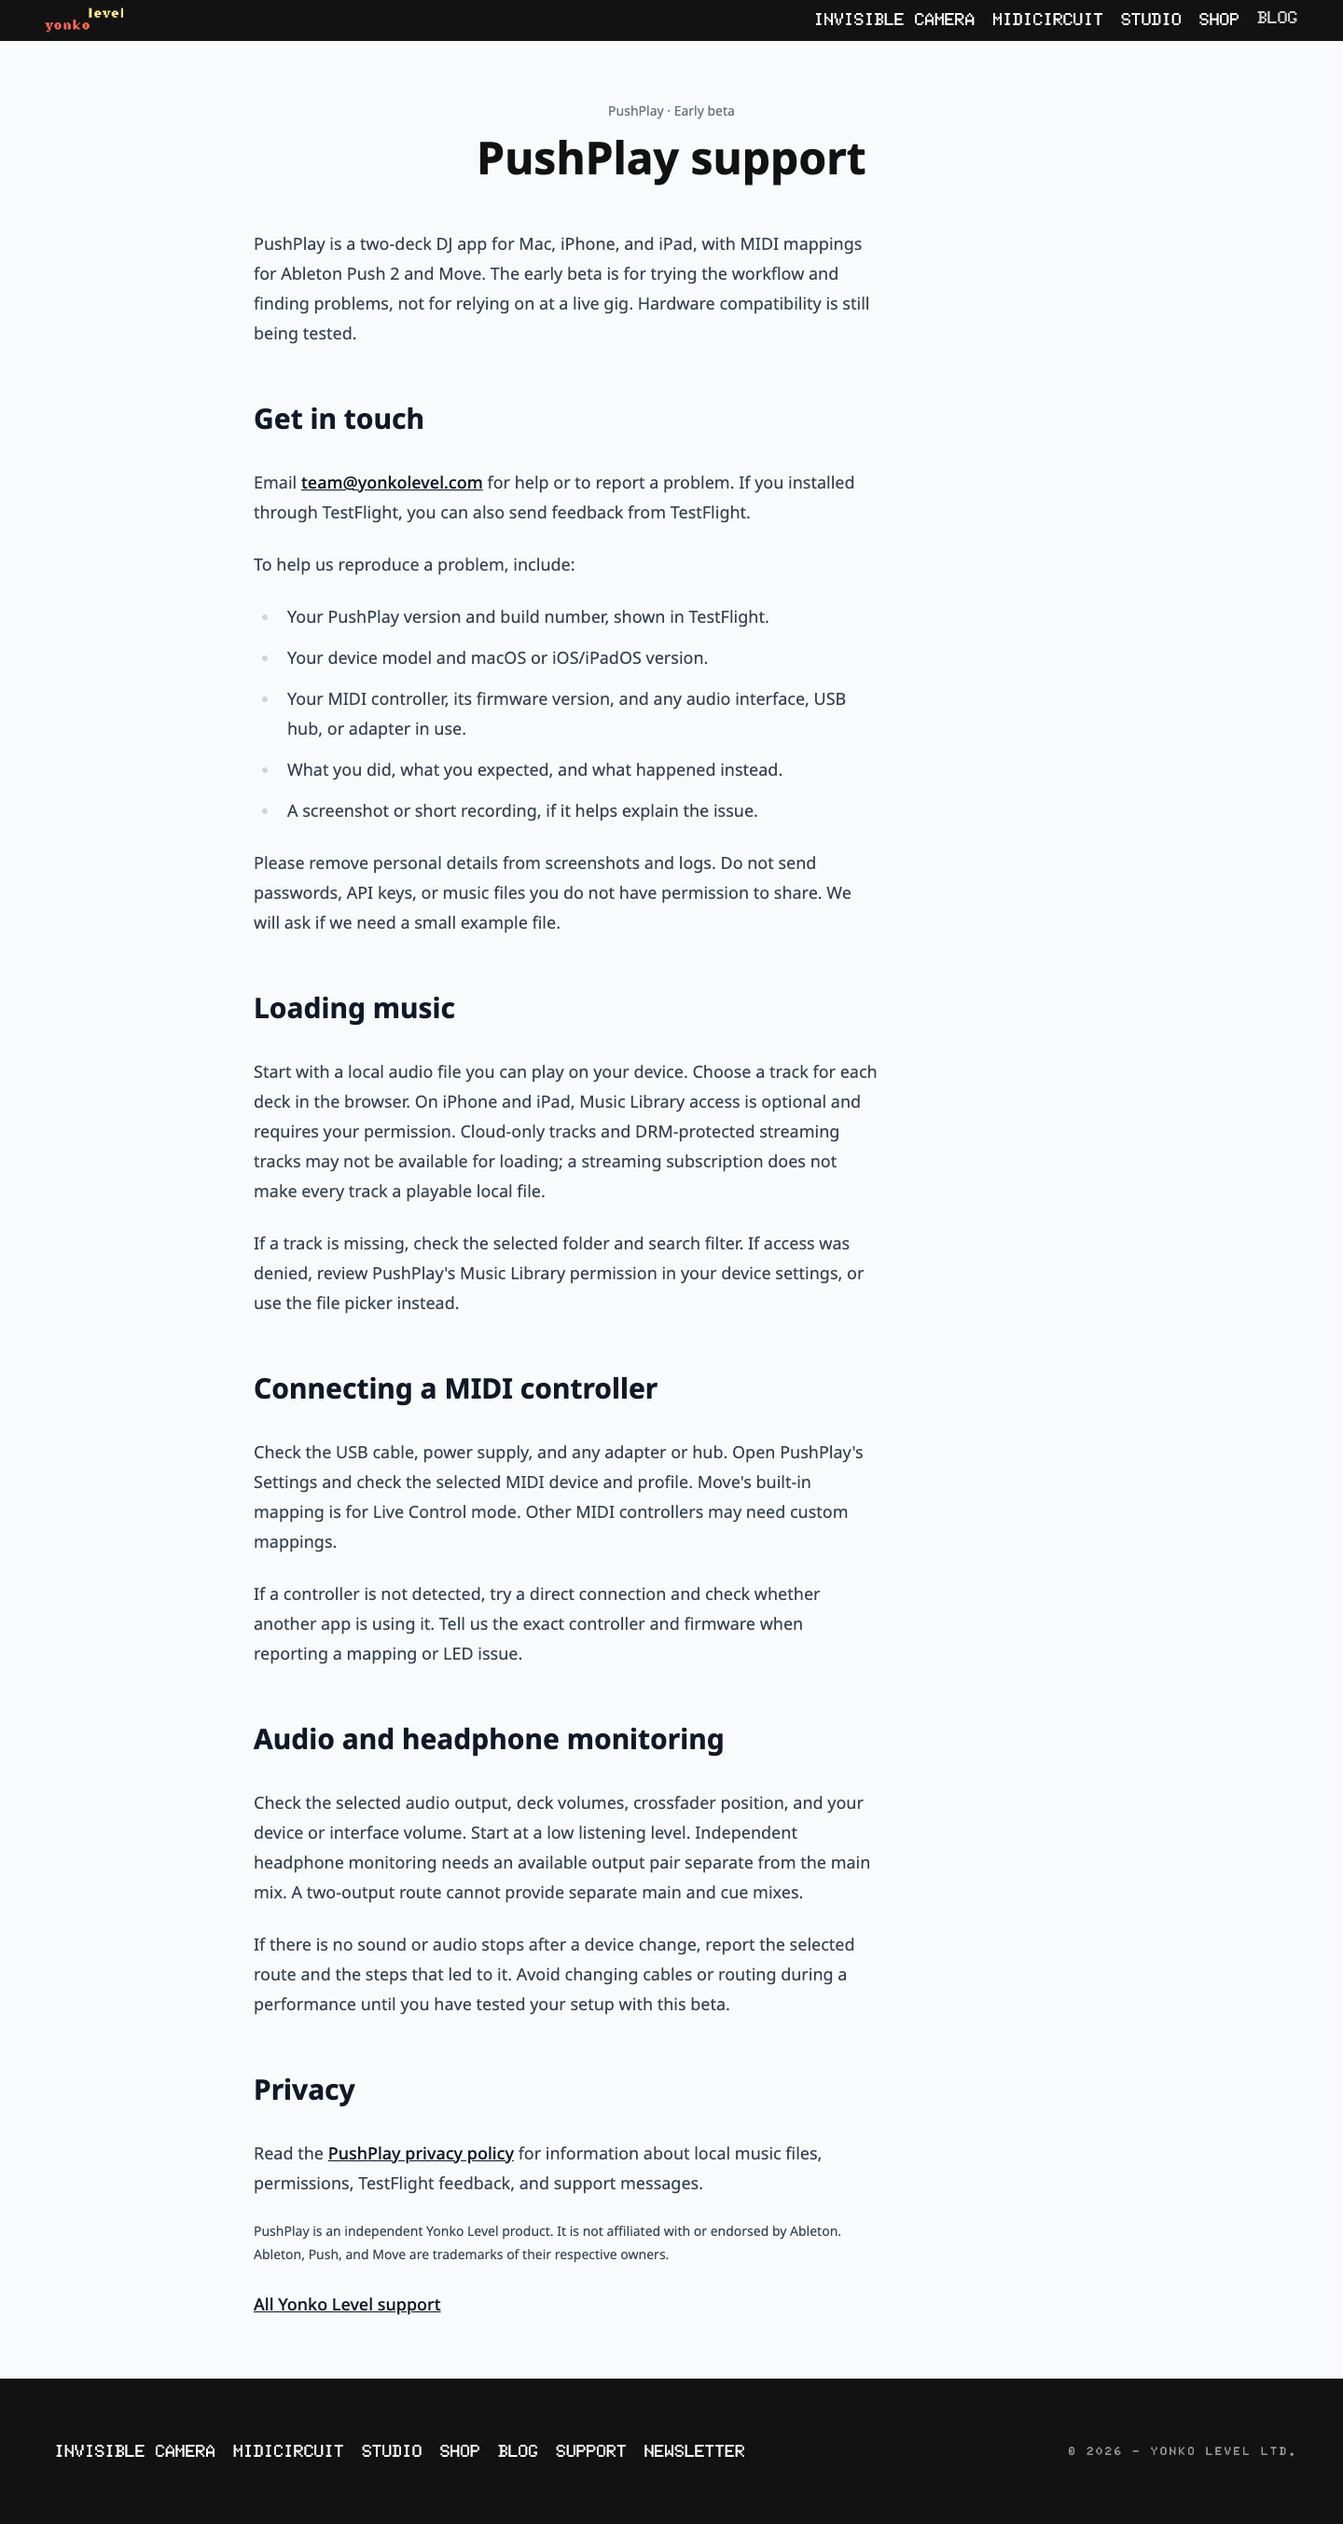
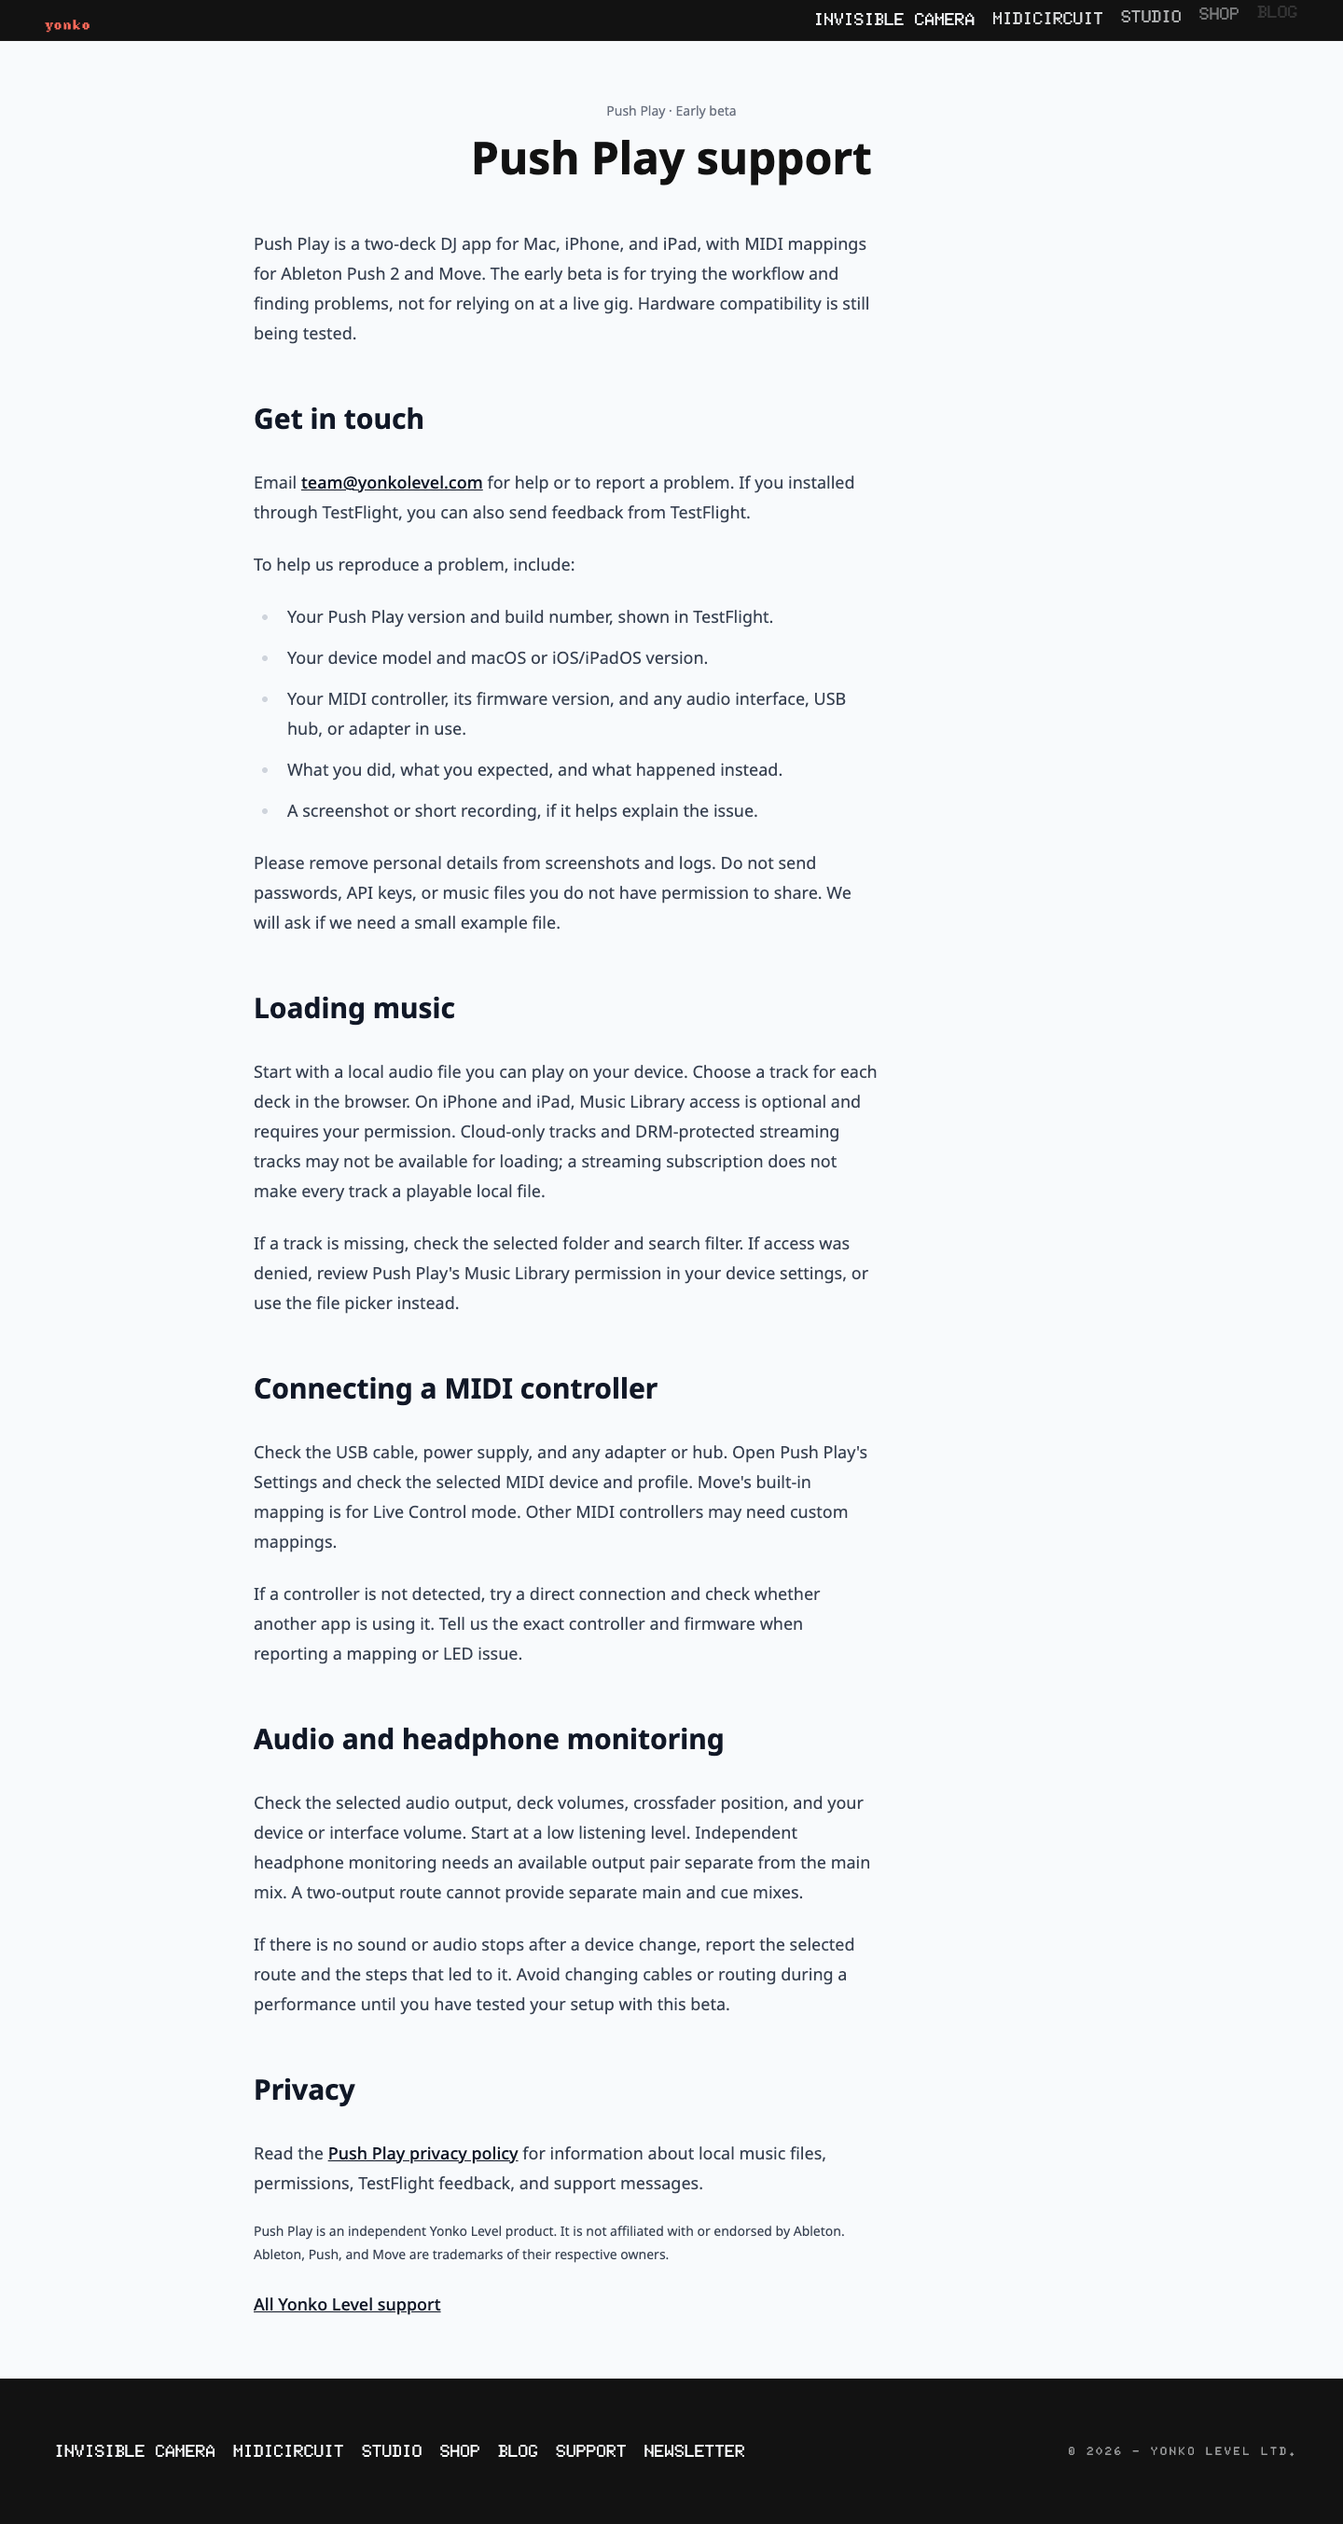
docs(pushplay): use Push Play product spelling
Keep support and privacy URLs unchanged and refresh desktop/mobile evidence.

diff --git a/src/app/products/pushplay/privacy-policy/page.tsx b/src/app/products/pushplay/privacy-policy/page.tsx
@@ -3,9 +3,9 @@ import Link from 'next/link';
 import Container from '@/components/Container';
 
 export const metadata: Metadata = {
-  title: 'Privacy Policy - PushPlay',
+  title: 'Privacy Policy - Push Play',
   description:
-    'How PushPlay handles local music files, MIDI settings, optional Music Library access, TestFlight feedback, and support messages.',
+    'How Push Play handles local music files, MIDI settings, optional Music Library access, TestFlight feedback, and support messages.',
   alternates: {
     canonical: 'https://yonkolevel.com/products/pushplay/privacy-policy',
   },
@@ -18,7 +18,7 @@ export default function PushPlayPrivacyPolicyPage() {
         <div className='max-w-4xl mx-auto'>
           <div className='pb-10 text-center'>
             <h1 className='font-body font-bold text-3xl text-black'>
-              PushPlay privacy policy
+              Push Play privacy policy
             </h1>
             <p className='text-sm text-gray-500 mt-4'>
               Last updated: <time dateTime='2026-10-25'>25 October 2026</time>
@@ -28,22 +28,22 @@ export default function PushPlayPrivacyPolicyPage() {
             <h2>Overview</h2>
             <p>
               Yonko Level Ltd (&ldquo;we&rdquo;, &ldquo;us&rdquo;, or
-              &ldquo;our&rdquo;) develops PushPlay. This policy covers the
-              PushPlay 0.1 early beta for macOS and iOS/iPadOS and information
-              you choose to send us for support. You do not need a PushPlay
+              &ldquo;our&rdquo;) develops Push Play. This policy covers the
+              Push Play 0.1 early beta for macOS and iOS/iPadOS and information
+              you choose to send us for support. You do not need a Push Play
               account to use the app.
             </p>
 
             <h2>Music files and library access</h2>
             <p>
-              PushPlay reads audio files you select and processes their audio,
+              Push Play reads audio files you select and processes their audio,
               waveforms, and track metadata on your device. It does not provide
               a service that uploads your tracks or music library to Yonko Level.
               Track names, artists, and other available metadata are used to
               display and find tracks in the app.
             </p>
             <p>
-              On iPhone and iPad, you can optionally give PushPlay permission to
+              On iPhone and iPad, you can optionally give Push Play permission to
               read your Music Library. You can decline or revoke this permission
               in your device settings and use the file picker instead. Files
               selected through iCloud Drive or another file provider remain
@@ -52,7 +52,7 @@ export default function PushPlayPrivacyPolicyPage() {
 
             <h2>Local settings and MIDI</h2>
             <p>
-              PushPlay stores preferences, selected-folder references, and saved
+              Push Play stores preferences, selected-folder references, and saved
               MIDI mappings locally. It exchanges MIDI messages with connected
               controllers to operate the decks and update controller feedback.
               These features do not require a Yonko Level cloud account or
@@ -60,7 +60,7 @@ export default function PushPlayPrivacyPolicyPage() {
             </p>
             <p>
               You control the original music files and can remove them using
-              your device&apos;s file tools. Removing PushPlay does not delete
+              your device&apos;s file tools. Removing Push Play does not delete
               original files stored outside the app. Local settings and backups
               are also subject to your operating system&apos;s storage and backup
               settings; contact us if you need help locating app-specific data.
@@ -68,7 +68,7 @@ export default function PushPlayPrivacyPolicyPage() {
 
             <h2>Analytics and beta diagnostics</h2>
             <p>
-              The current PushPlay early beta does not initialise an in-app
+              The current Push Play early beta does not initialise an in-app
               advertising or usage-analytics service. It does not sell your
               personal information or use your music for advertising.
             </p>
@@ -89,7 +89,7 @@ export default function PushPlayPrivacyPolicyPage() {
             <p>
               If you email support, we receive your email address, the contents
               of your message, and any files you attach. We use that information
-              to answer you, investigate problems, and improve PushPlay. Where
+              to answer you, investigate problems, and improve Push Play. Where
               data-protection law requires a legal basis, we rely on our
               legitimate interests in providing support and maintaining the app,
               or on meeting applicable legal obligations.
@@ -119,14 +119,14 @@ export default function PushPlayPrivacyPolicyPage() {
             <h2>Children&apos;s information</h2>
             <p>
               We do not ask children to provide personal information through
-              PushPlay. If you believe a child has sent us personal information
+              Push Play. If you believe a child has sent us personal information
               in a support message or beta report, contact us so we can review
               and address it.
             </p>
 
             <h2>Changes and contact</h2>
             <p>
-              We will update this page and its date if PushPlay&apos;s data
+              We will update this page and its date if Push Play&apos;s data
               practices change. This app policy does not describe analytics used
               on the Yonko Level website itself or replace Apple&apos;s or your
               file provider&apos;s privacy terms.
@@ -135,7 +135,7 @@ export default function PushPlayPrivacyPolicyPage() {
               For privacy questions, email{' '}
               <a href='mailto:team@yonkolevel.com'>team@yonkolevel.com</a> at
               Yonko Level Ltd. For help using the app, visit{' '}
-              <Link href='/products/pushplay/support'>PushPlay support</Link>.
+              <Link href='/products/pushplay/support'>Push Play support</Link>.
             </p>
           </div>
         </div>

diff --git a/src/app/products/pushplay/support/page.tsx b/src/app/products/pushplay/support/page.tsx
@@ -3,9 +3,9 @@ import Link from 'next/link';
 import Container from '@/components/Container';
 
 export const metadata: Metadata = {
-  title: 'PushPlay Support',
+  title: 'Push Play Support',
   description:
-    'Get help with the PushPlay early beta: loading tracks, connecting MIDI controllers, audio output, and reporting problems.',
+    'Get help with the Push Play early beta: loading tracks, connecting MIDI controllers, audio output, and reporting problems.',
   alternates: {
     canonical: 'https://yonkolevel.com/products/pushplay/support',
   },
@@ -17,14 +17,14 @@ export default function PushPlaySupportPage() {
       <Container>
         <div className='max-w-4xl mx-auto'>
           <div className='pb-10 text-center'>
-            <p className='text-sm text-gray-500 mb-4'>PushPlay · Early beta</p>
+            <p className='text-sm text-gray-500 mb-4'>Push Play · Early beta</p>
             <h1 className='font-body font-bold text-3xl text-black'>
-              PushPlay support
+              Push Play support
             </h1>
           </div>
           <div className='prose prose-lg text-gray-700 prose-headings:text-gray-900 prose-a:text-gray-900 prose-bullets:text-gray-600'>
             <p>
-              PushPlay is a two-deck DJ app for Mac, iPhone, and iPad, with MIDI
+              Push Play is a two-deck DJ app for Mac, iPhone, and iPad, with MIDI
               mappings for Ableton Push 2 and Move. The early beta is for trying
               the workflow and finding problems, not for relying on at a live gig.
               Hardware compatibility is still being tested.
@@ -33,7 +33,7 @@ export default function PushPlaySupportPage() {
             <h2>Get in touch</h2>
             <p>
               Email{' '}
-              <a href='mailto:team@yonkolevel.com?subject=PushPlay%20support'>
+              <a href='mailto:team@yonkolevel.com?subject=Push%20Play%20support'>
                 team@yonkolevel.com
               </a>{' '}
               for help or to report a problem. If you installed through
@@ -41,7 +41,7 @@ export default function PushPlaySupportPage() {
             </p>
             <p>To help us reproduce a problem, include:</p>
             <ul>
-              <li>Your PushPlay version and build number, shown in TestFlight.</li>
+              <li>Your Push Play version and build number, shown in TestFlight.</li>
               <li>Your device model and macOS or iOS/iPadOS version.</li>
               <li>
                 Your MIDI controller, its firmware version, and any audio
@@ -67,14 +67,14 @@ export default function PushPlaySupportPage() {
             </p>
             <p>
               If a track is missing, check the selected folder and search filter.
-              If access was denied, review PushPlay&apos;s Music Library permission
+              If access was denied, review Push Play&apos;s Music Library permission
               in your device settings, or use the file picker instead.
             </p>
 
             <h2>Connecting a MIDI controller</h2>
             <p>
               Check the USB cable, power supply, and any adapter or hub. Open
-              PushPlay&apos;s Settings and check the selected MIDI device and
+              Push Play&apos;s Settings and check the selected MIDI device and
               profile. Move&apos;s built-in mapping is for Live Control mode.
               Other MIDI controllers may need custom mappings.
             </p>
@@ -103,13 +103,13 @@ export default function PushPlaySupportPage() {
             <p>
               Read the{' '}
               <Link href='/products/pushplay/privacy-policy'>
-                PushPlay privacy policy
+                Push Play privacy policy
               </Link>{' '}
               for information about local music files, permissions, TestFlight
               feedback, and support messages.
             </p>
             <p className='text-sm'>
-              PushPlay is an independent Yonko Level product. It is not affiliated
+              Push Play is an independent Yonko Level product. It is not affiliated
               with or endorsed by Ableton. Ableton, Push, and Move are trademarks
               of their respective owners.
             </p>

diff --git a/src/app/support/page.tsx b/src/app/support/page.tsx
@@ -112,7 +112,7 @@ export default function SupportPage() {
               ))}
               <div className='bg-white/5 rounded-lg p-6 flex flex-wrap items-center gap-6'>
                 <span className={`${LABEL} text-white flex-1`}>
-                  PUSHPLAY
+                  PUSH PLAY
                 </span>
                 <div className='flex flex-wrap items-center gap-3'>
                   <Link

diff --git a/docs/verification/pushplay/README.md b/docs/verification/pushplay/README.md
@@ -1,8 +1,21 @@
-# PushPlay support/privacy verification
+# Push Play support/privacy verification
 
 Checked 2026-10-25 on `feat/pushplay-support-privacy`, based on `origin/main`
 (`e52c309`). The original website checkout's homepage, Studio, and mobile-menu
 work was left untouched.
+
+## Rename follow-up (2026-10-25)
+
+Updated the product spelling to **Push Play** in both pages, metadata, support
+index, and URL-encoded support-email subject. Existing `/products/pushplay/`
+routes and component identifiers are unchanged. Refreshed all five screenshots.
+Lint, TypeScript, and the production webpack build passed again. Browser checks
+passed on all three routes at 1440×1000 and 390×844: new branding, unchanged
+canonical URLs, support/privacy navigation, and no horizontal overflow or
+reported runtime errors. No email/payment actions were exercised.
+
+Code review: skipped (mechanical diff) — brand-string substitutions and refreshed
+verification artifacts only; no application logic or privacy claims changed.
 
 ## Checks
 
@@ -27,7 +40,7 @@ Desktop viewport: 1440×1000. Mobile viewport: 390×844. Screenshots are full-pa
 
 | Route | Result | Evidence |
 | --- | --- | --- |
-| `/support` | Pass | Both PushPlay links present; clicked the support link successfully; mobile layout has no horizontal overflow. |
+| `/support` | Pass | Both Push Play links present; clicked the support link successfully; mobile layout has no horizontal overflow. |
 | `/products/pushplay/support` | Pass | Content, support mailto, canonical URL, and privacy link checked; desktop/mobile screenshots. |
 | `/products/pushplay/privacy-policy` | Pass | Navigated from support; title, content, canonical/source URLs, and desktop/mobile layout checked. |
 
@@ -38,9 +51,9 @@ No email was sent. Off-screen links were scrolled into view before clicking.
 
 ## Privacy review boundary
 
-The draft is based on PushPlay's app entry point, local file/library and MIDI
+The draft is based on Push Play's app entry point, local file/library and MIDI
 persistence code, and its shared dependency implementations. No analytics
-initialisation or analytics dependency access was found in PushPlay's active
+initialisation or analytics dependency access was found in Push Play's active
 feature code. Its DJ mixer uses its own player wrapper, not the shared
 `AudioPlayerConductor` / `AudioManager` analytics path. Shared packages still
 contain PostHog/Firebase components, so this is not a claim that the binary has
